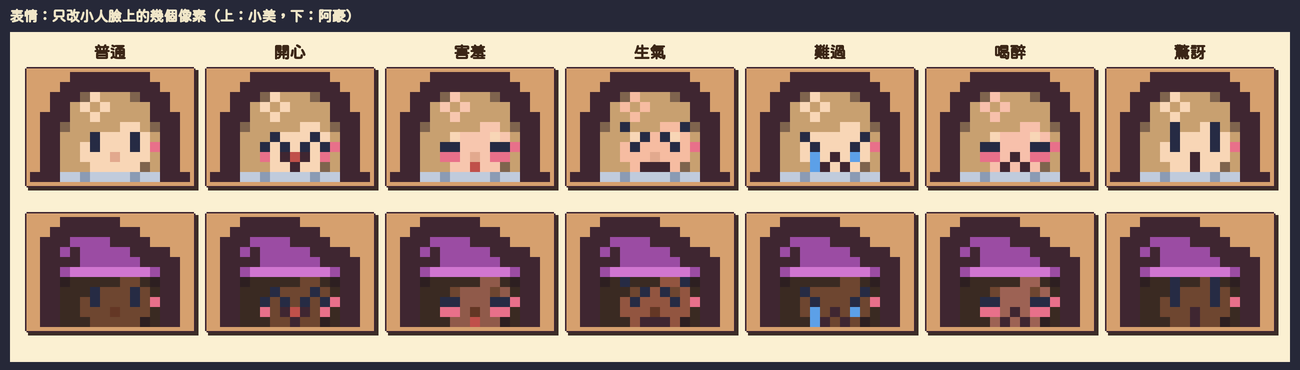
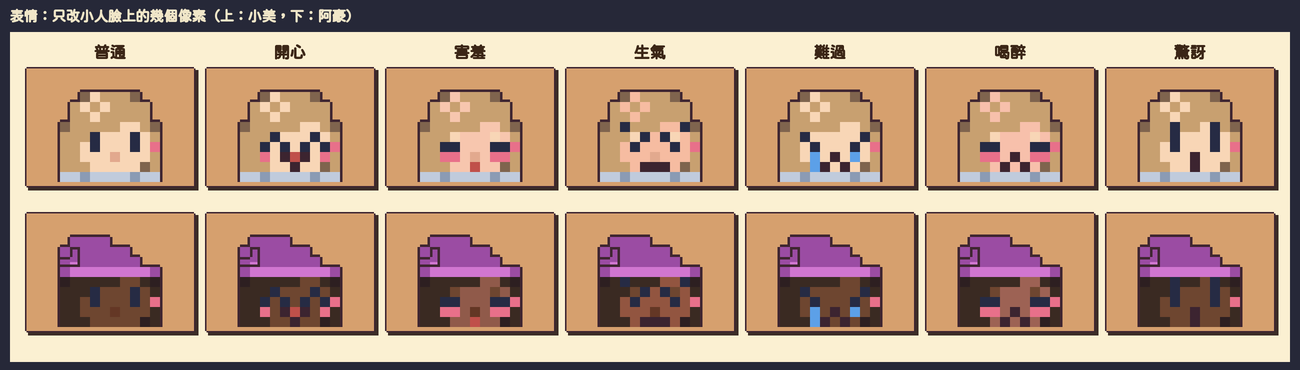
草圖：第一人稱加景深（背景模糊、你的手微糊）＋外框改細線（1/4 像素）
Claude-Session: https://claude.ai/code/session_01Gt7YNjRtTEPU26qQR6iKwb

diff --git a/design/ui/firstperson.py b/design/ui/firstperson.py
@@ -55,7 +55,7 @@ def emo(name):
     return im
 
 # ---------- 表情：直接改遊戲小人臉上的幾個像素（Kenney 風格，眼睛 1×2、嘴 1 格） ----------
-EYE = hx('#262b44'); DARK = K['#']; PINK = hx('#e8708a'); TEAR = hx('#5ca0e8'); MOUTH = hx('#c0504a')
+EYE = hx('#262b44'); DARK = hx('#3c2430'); PINK = hx('#e8708a'); TEAR = hx('#5ca0e8'); MOUTH = hx('#c0504a')
 def mix(c, t, a): return tuple(round(c[i] * (1 - a) + t[i] * a) for i in range(3)) + (255,)
 
 def face_info(im):
@@ -104,36 +104,70 @@ def express(im, kind):
         put(mx, my, DARK); put(mx, my + 1, DARK)                                                     # 嘴巴張開 O
     return im
 
+# ---------- 細線：Kenney 的 1 像素外框改成 1/T 像素（色塊和眼睛照舊是大格） ----------
+import numpy as np
+from scipy import ndimage
+from PIL import ImageFilter, ImageEnhance
+T = 4
+def thin(im, k=T):
+    lo = np.array(im.convert('RGBA')); a_lo = lo[..., 3] > 0
+    ol_lo = a_lo & np.all(lo[..., :3] == K['#'][:3], axis=-1)
+    ring1 = ol_lo & ndimage.binary_dilation(np.pad(~a_lo, 1, constant_values=True), structure=np.ones((3, 3)))[1:-1, 1:-1]
+    ext_lo = ol_lo & ndimage.binary_dilation(ring1, structure=np.ones((3, 3)))          # 外圍的框（Kenney 小人外面是 2 格粗）
+    hi = np.repeat(np.repeat(lo, k, 0), k, 1); a = hi[..., 3] > 0
+    ol = np.repeat(np.repeat(ol_lo, k, 0), k, 1); ext = np.repeat(np.repeat(ext_lo, k, 0), k, 1)
+    col = a & ~ol
+    keep = ol & ~ext & ndimage.binary_dilation(col)                                      # 裡面的框：緊貼色塊的 1 格留著當細線
+    out = hi.copy()
+    out[ext, 3] = 0                                                                      # 外圍的粗框整圈拿掉
+    fill = ol & ~ext & ~keep                                                             # 裡面多出來的框 → 用旁邊的顏色填
+    if fill.any():
+        idx = ndimage.distance_transform_edt(~col, return_distances=False, return_indices=True)
+        out[fill] = hi[idx[0][fill], idx[1][fill]]
+    sil = out[..., 3] > 0                                                                # 沿著新的輪廓外面描一圈細線
+    ring = ndimage.binary_dilation(sil) & ~sil
+    out[ring] = K['#']
+    return Image.fromarray(out)
+
 def hero_img(hero_png):
     h = tile(hero_png); return h.crop(h.getbbox())
 
 def scene(hero_png, kind='開心', emote='開心'):
-    L = Image.new('RGBA', (NW, NH), K['H']); d = ImageDraw.Draw(L)
-    for x in range(2, NW, 6): d.line([(x, 0), (x, NH)], fill=K['h'])            # 木板牆
-    d.rectangle([0, 6, NW, 6], fill=K['o']); d.line([(0, 7), (NW, 7)], fill=K['#'])   # 酒架（後面，只露一截）
-    for x, n in zip((0, 21), ('10_06', '10_07')): b = item(TD + n + '.png'); L.alpha_composite(b, (x, 6 - b.height))
-    h = express(hero_img(hero_png), kind)
-    hx0, hy0 = (NW - h.width) // 2, 6
-    L.alpha_composite(h, (hx0, hy0))
-    L.alpha_composite(MUG, (0, hy0 + 4)); d.rectangle([hx0 - 1, hy0 + 8, hx0, hy0 + 9], fill=K['S'])   # 他舉起的酒杯
-    # 吧台（只到畫面最下面幾格）
+    k = S // T
+    # 背景（牆、酒架、酒瓶）：另外一層，放大後模糊＝景深
+    B = Image.new('RGBA', (NW, NH), K['H']); d = ImageDraw.Draw(B)
+    for x in range(2, NW, 6): d.line([(x, 0), (x, NH)], fill=K['h'])
+    for sy in (6, 15):
+        d.rectangle([0, sy, NW, sy], fill=K['o']); d.line([(0, sy + 1), (NW, sy + 1)], fill=K['#'])
+    for x, n, sy in ((0, '10_06', 6), (3, '10_08', 6), (19, '10_07', 6), (22, '10_05', 6), (1, '10_07', 15), (21, '10_06', 15)):
+        b = item(TD + n + '.png'); B.alpha_composite(b, (x, sy - b.height))
+    big = B.resize((NW * S, NH * S), Image.NEAREST).filter(ImageFilter.GaussianBlur(14))
+    big = ImageEnhance.Color(big).enhance(.8)
+    # 勇者（焦點，清楚）＋他的酒杯
+    F = Image.new('RGBA', (NW, NH), (0, 0, 0, 0)); d = ImageDraw.Draw(F)
+    h = express(hero_img(hero_png), kind); hx0, hy0 = (NW - h.width) // 2, 6
+    F.alpha_composite(MUG, (0, hy0 + 4)); d.rectangle([hx0 - 1, hy0 + 8, hx0, hy0 + 9], fill=K['S'])
+    F.alpha_composite(h, (hx0, hy0))
+    # 吧台（和勇者差不多遠，清楚）
     d.rectangle([0, 21, NW, NH], fill=K['H']); d.rectangle([0, 19, NW, 20], fill=K['o']); d.line([(0, 18), (NW, 18)], fill=K['#']); d.line([(0, 21), (NW, 21)], fill=K['#'])
     for x in range(4, NW, 8): d.line([(x, 22), (x, NH)], fill=K['h'])
-    L.alpha_composite(MUG, (18, 16)); L.alpha_composite(HAND, (19, 22))          # 你的手和酒杯
-    big = L.resize((NW * S, NH * S), Image.NEAREST)
-    if emote:   # Kenney 表情泡泡（勇者的一半像素），頭的右上
-        e = emo(emote); e = e.resize((e.width * 12, e.height * 12), Image.NEAREST)
+    big.alpha_composite(thin(F).resize((NW * S, NH * S), Image.NEAREST))
+    # 你的手和酒杯：離鏡頭最近，稍微模糊
+    Y = Image.new('RGBA', (NW, NH), (0, 0, 0, 0)); Y.alpha_composite(MUG, (18, 16)); Y.alpha_composite(HAND, (19, 22))
+    big.alpha_composite(thin(Y).resize((NW * S, NH * S), Image.NEAREST).filter(ImageFilter.GaussianBlur(4)))
+    if emote:   # Kenney 表情泡泡，也用細線
+        e = thin(emo(emote)); e = e.resize((e.width * 3, e.height * 3), Image.NEAREST)
         big.alpha_composite(e, (NW * S - e.width - 10, 100))
     out = Image.new('RGBA', (780, 864), K['H']); out.alpha_composite(big, ((780 - big.width) // 2, 0)); return out
 
 def sheet(heroes):
-    kinds = ['普通', '開心', '害羞', '生氣', '難過', '喝醉', '驚訝']; C = 20; cw = 16 * C + 40
-    out = Image.new('RGBA', (cw * len(kinds) + 40, 80 + len(heroes) * (11 * C + 70)), PAPER + (255,)); d = ImageDraw.Draw(out)
+    kinds = ['普通', '開心', '害羞', '生氣', '難過', '喝醉', '驚訝']; C = 5; cw = 16 * C * T + 40
+    out = Image.new('RGBA', (cw * len(kinds) + 40, 80 + len(heroes) * (11 * C * T + 70)), PAPER + (255,)); d = ImageDraw.Draw(out)
     for i, k in enumerate(kinds): text_c(d, 20 + i * cw + cw // 2, 40, k, 16, TXT, True)
     for j, hp in enumerate(heroes):
         for i, k in enumerate(kinds):
-            f = express(hero_img(hp), k).crop((0, 0, 16, 11)); f = f.resize((16 * C, 11 * C), Image.NEAREST)
-            x, y = 20 + i * cw + 20, 80 + j * (11 * C + 70)
+            f = thin(express(hero_img(hp), k).crop((0, 0, 16, 11))); f = f.resize((f.width * C, f.height * C), Image.NEAREST)
+            x, y = 20 + i * cw + 20, 80 + j * (11 * C * T + 70)
             box(d, x - 10, y - 10, x + f.width + 10, y + f.height + 10, fill=(214, 160, 110)); out.alpha_composite(f, (x, y))
     return out
 
